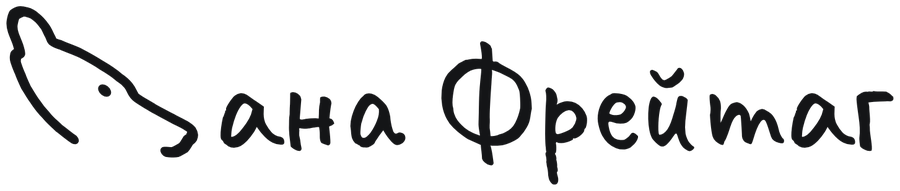
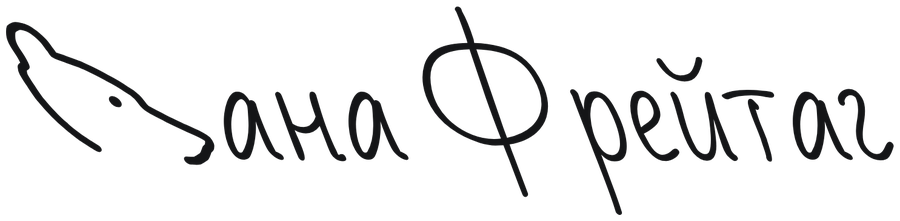
Почта: адреса страницами по 10 со стрелками; автограф — взрослый небрежный почерк с явным наклоном влево
Claude-Session: https://claude.ai/code/session_01Uu83MB45nkJX1tXJZPePva

Changed region(s): [[0.4667, 0.0262, 0.9956, 0.9686], [0.0, 0.0262, 0.4667, 0.8377], [0.6844, 0.9162, 0.7156, 0.9686]]

diff --git a/writer/js/views/mail.js b/writer/js/views/mail.js
@@ -13,11 +13,12 @@ import { niceMax, ticks } from '../../../js/charts.js';
 import { addDays } from '../../../js/calc.js';
 
 const app = () => window.__app;
-const M = { cfg: null, raw: undefined, info: null, err: '', busy: false, imgs: {}, old: null, q: '', status: 'ok', show: 20, range: 90, when: 'now', at: null, sure: false, pasting: false, pv: false };
+const M = { cfg: null, raw: undefined, info: null, err: '', busy: false, imgs: {}, old: null, q: '', status: 'ok', page: 0, range: 90, when: 'now', at: null, sure: false, pasting: false, pv: false };
 // раскрытые разделы не сворачиваются при перерисовке
 const OPEN = new Set();
 const det = (k) => ` data-det="${k}"${OPEN.has(k) ? ' open' : ''}`;
 if (typeof document !== 'undefined') document.addEventListener('toggle', (e) => { const k = e.target.dataset?.det; if (k) { if (e.target.open) OPEN.add(k); else OPEN.delete(k); } }, true);
+const PER = 10;
 const plain = (s) => String(s ?? '').replace(/\*/g, '').replace(/\s+/g, ' ').trim();
 const dm = (iso) => { const p = localParts(iso); return `${fmtDate(p.date)} в ${p.time}`; };
 
@@ -77,6 +78,8 @@ export function mailView(a) {
   const d = M.cfg.draft, hasDraft = !!(d.subject || d.title || d.text);
   const queue = M.info.queue || [], sent = (M.info.sent || []).slice().reverse();
   const list = filterSubs(L, { q: M.q, status: M.status });
+  // адреса — страницами по 10: поиск и статус сверху, стрелки внизу (длинную простыню владелица не хочет)
+  const pages = Math.max(1, Math.ceil(list.length / PER)), pg = Math.min(M.page, pages - 1);
   const html = `<section class="links-page mail-page">${head}
   <div class="tiles mail-tiles">
     <div><div class="k">Подписчицы</div><div class="v">${s.ok}</div><div class="s">${s.new30 ? `+${s.new30} за 30 дней` : 'новых за 30 дней нет'}</div></div>
@@ -105,11 +108,13 @@ export function mailView(a) {
     <div class="mail-find"><input type="search" placeholder="Поиск по почте или имени" value="${esc(M.q)}" data-ml-q aria-label="Поиск по адресам">
       <div class="seg">${[['ok', 'Подтвердили', s.ok], ['pending', 'Ждут', s.wait], ['unsub', 'Отписались', s.unsub], ['all', 'Все', L.length]].map(([k, t, n]) => `<button class="${M.status === k ? 'on' : ''}" data-act="mail.status" data-v="${k}">${t} <span class="muted">${n}</span></button>`).join('')}</div></div>
     ${old.length ? `<div class="item row between mail-old"><span><b>Адреса из прежней формы: ${old.length}</b><span class="sub">оставили почту с согласием до подключения сервиса</span></span><button class="small-btn" data-act="mail.import">Перенести</button></div>` : ''}
-    <div class="mail-list">${list.length ? list.slice(0, M.show).map((p) => `<div class="mail-row"><span class="mail-who"><b>${esc(p.email)}</b>${p.name ? `<span class="muted"> · ${esc(p.name)}</span>` : ''}</span>
+    <div class="mail-list">${list.length ? list.slice(pg * PER, pg * PER + PER).map((p) => `<div class="mail-row"><span class="mail-who"><b>${esc(p.email)}</b>${p.name ? `<span class="muted"> · ${esc(p.name)}</span>` : ''}</span>
       <span class="mail-meta">${esc(statusName(p.status))} ${p.okAt || p.at ? fmtDate(String(p.okAt || p.at).slice(0, 10)) : ''}${srcName(p.src) ? ` · ${esc(srcName(p.src))}` : ''}</span>
       <button class="icon-btn" data-act="mail.del" data-e="${esc(p.email)}" title="Удалить адрес" aria-label="Удалить адрес">${ic('trash')}</button></div>`).join('')
       : `<p class="small muted" style="margin:10px 0 0">${M.q ? 'Никого не нашла.' : M.status === 'ok' ? 'Подтверждённых подписчиц пока нет — первые появятся здесь сами.' : 'Пусто.'}</p>`}</div>
-    ${list.length > M.show ? `<button class="link" data-act="mail.more" style="margin-top:10px">Показать ещё · ${list.length - M.show}</button>` : ''}
+    ${pages > 1 ? `<div class="mail-pg"><button class="nav-arr" data-act="mail.page" data-v="-1"${pg ? '' : ' disabled'} aria-label="Назад">${ic('chevron')}</button>
+      <span>${pg * PER + 1}–${Math.min(list.length, pg * PER + PER)} из ${list.length}</span>
+      <button class="nav-arr next" data-act="mail.page" data-v="1"${pg < pages - 1 ? '' : ' disabled'} aria-label="Дальше">${ic('chevron')}</button></div>` : ''}
     <p class="small muted" style="margin:12px 0 0">Адреса хранятся в вашем сервисе писем в Яндекс Облаке (в России), копия — каждую ночь там же и в архиве Мастерской. Письма уходят с ${esc(M.info.from || 'вашего адреса')}, ответы — на ${esc(M.info.replyTo || 'вашу почту')}.</p>
   </div>
   <details class="mail-more"${det('arc')}><summary>Копия адресов в архив Мастерской</summary>
@@ -264,7 +269,7 @@ if (typeof document !== 'undefined') {
     const el = e.target;
     if (!M.cfg) return;
     if (el.dataset.ml) { M.cfg.draft[el.dataset.ml] = el.value; if (el.tagName === 'TEXTAREA') grow(el); saveCfg(); clearTimeout(pvT); pvT = setTimeout(preview, 200); }
-    else if (el.dataset.mlQ !== undefined) { M.q = el.value; M.show = 20; clearTimeout(pvT); pvT = setTimeout(() => { const p = el.selectionStart; app().rerender(); const n = document.querySelector('[data-ml-q]'); if (n) { n.focus(); n.setSelectionRange(p, p); } }, 250); }
+    else if (el.dataset.mlQ !== undefined) { M.q = el.value; M.page = 0; clearTimeout(pvT); pvT = setTimeout(() => { const p = el.selectionStart; app().rerender(); const n = document.querySelector('[data-ml-q]'); if (n) { n.focus(); n.setSelectionRange(p, p); } }, 250); }
     else if (el.dataset.ld && el.type !== 'checkbox') { M.raw.letter = { ...(M.raw.letter || {}), [el.dataset.ld]: el.value }; saveDesign(); clearTimeout(pvT); pvT = setTimeout(preview, 200); }
     else if (el.dataset.mlAt) { M.at = { ...M.at, [el.dataset.mlAt]: el.value }; }
   });
@@ -296,8 +301,8 @@ const draftFields = () => { const d = M.cfg.draft; return Object.fromEntries(['b
 // ---------- действия ----------
 acts['mail.reload'] = () => { M.cfg = null; M.info = null; load(true); return false; };
 acts['mail.range'] = (d) => { M.range = Number(d.v); };
-acts['mail.status'] = (d) => { M.status = d.v; M.show = 20; };
-acts['mail.more'] = () => { M.show += 50; };
+acts['mail.status'] = (d) => { M.status = d.v; M.page = 0; };
+acts['mail.page'] = (d) => { M.page = Math.max(0, M.page + Number(d.v)); };
 acts['mail.pv'] = (d) => { M.pv = d.v === '1'; };
 acts['mail.dark'] = (d) => { M.dark = d.v === '1'; preview(); document.querySelectorAll('[data-act="mail.dark"]').forEach((b) => b.classList.toggle('on', b.dataset.v === d.v)); return false; };
 acts['mail.when'] = (d) => { M.when = d.v; M.sure = false; };

diff --git a/css/style.css b/css/style.css
@@ -3255,3 +3255,7 @@ input.own-range::-moz-range-thumb { width: 24px; height: 24px; border-radius: 50
   :root .top .row { gap: 8px; }
   :root .top + main, :root .top ~ main { padding-top: 10px; }
 }
+/* адреса в Почте — страницами: «‹ 1–10 из 136 ›» */
+.mail-pg { display: flex; align-items: center; justify-content: center; gap: 6px; margin-top: 10px; font-size: 13px; color: var(--text-2); }
+.mail-pg span { min-width: 96px; text-align: center; font-variant-numeric: tabular-nums; }
+:is(main) .mail-pg button.nav-arr[disabled] { opacity: .3; pointer-events: none; }

diff --git a/AGENTS.md b/AGENTS.md
@@ -73,7 +73,7 @@
   (сайт · админка · статистика, `.site-go`) и плитка «Подписчицы» из сервиса (`mailCount`) → Почта.
   Почта: плитки (подписчицы +за 30 дней, ждут подтверждения, отписались), аккуратный график роста (`subsSeries`, 30/90 дней/всё, наведение — число),
   письма (отложенные — «Изменить»/отменить; черновик; отправленные — «Взять за основу»), адреса (поиск, Подтвердили/Ждут/Отписались/Все,
-  удалить, «Скачать таблицу» CSV `subsCsv`, «Перенести» адреса прежней формы Firebase). Расчёты — `js/mailcalc.js` (тесты в tests/mail.test.js).
+  удалить, «Скачать таблицу» CSV `subsCsv`, «Перенести» адреса прежней формы Firebase); список — страницами по 10 со стрелками «‹ 11–20 из 136 ›» (`PER`, `M.page`; длинную простыню владелица не хочет). Расчёты — `js/mailcalc.js` (тесты в tests/mail.test.js).
   Редактор: слева поля (книга → обложка, цикл, ссылка сами; тема, над заголовком, заголовок, текст, цитата, кнопка; «Ещё» — строка после темы, ссылка,
   подпись), справа письмо (светлая/тёмная почта; на телефоне — «Письмо | Как увидят»). «Отправить сейчас» или «В день и час»: дата+время, подсказки
   из таймеров выкладки (первая глава на таймере), старта выкладки по плану книги (`publishStart`, даже если глава ещё не на таймере) и стартов подписки
@@ -88,8 +88,8 @@
   «Почта/Подписчицы.csv», если в «Свойствах скрипта» есть MAIL_KEY; адрес сервиса — `settings.site.mailUrl` в тексте программы.
   Вкладки «Письма» в админке больше нет (владелица: «зачем она теперь») — подключение сервиса (адрес → content.mailUrl через `patchSite`, пароль) — в Почте.
   **Автограф** (её идея: «автограф, вытекающий из мишки»): `site/autograph.png` (+ `autograph-light.png` для тёмной почты, `.sig-l/.sig-d`) —
-  графичный медведь из линий (тот же, что `ic('bear')` / writer/bear.svg) — буква «Л», дальше «ана Фрейтаг» небрежным почерком (Caveat 500)
-  с наклоном влево 18°, без завитушек и росчерков (каллиграфию с медведем-фото и нитью она отвергла: «что за бред»); `letter.autograph` (по умолчанию да),
+  графичный медведь из линий (тот же, что `ic('bear')` / writer/bear.svg) — буква «Л», дальше «ана Фрейтаг» взрослым небрежным почерком (Bad Script; Caveat она назвала «детским»)
+  с явным наклоном влево 30° (18° выглядело прямым), без завитушек и росчерков (каллиграфию с медведем-фото и нитью она отвергла: «что за бред»); `letter.autograph` (по умолчанию да),
   верхний медведь (`bear`) остаётся всегда — владелица: «не трогать верхнего медведя». В «Обзоре» плитка сайта — с иконкой медведя (`ic('bear')`).
   Письмо без серой подложки под обложкой (владелица: «не нравится этот серый квадрат»; `tint` — только если задать явно); тёмная тема почты —
   `prefers-color-scheme` и `[data-ogsc]`, медведь — прозрачный `site/mail-bear.png`.
